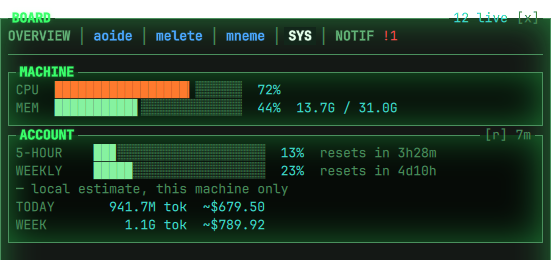
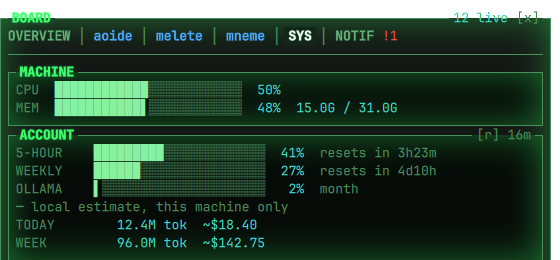
song(cadenza): the SYS account pane reads the ollama monthly limit (a gauge, a dim error line, nothing without a key)
Claude-Session: https://claude.ai/code/session_019AEiEL6mcmoQrTzxAXb3aT

diff --git a/song/songbook/cadenza/widgets/BoardSys.qml b/song/songbook/cadenza/widgets/BoardSys.qml
@@ -20,7 +20,10 @@
 // `costUsd: null` mean UNKNOWN and draw `—`, never 0; `costPartial` draws
 // the figure orange with a `~`. ACCOUNT reads `state/usage.json` (real
 // today) through `livery.usagePath`; `[r]` asks the daemon to re-run the
-// poller (`bridge.refreshUsage`) — the file watch picks the answer up.
+// poller (`bridge.refreshUsage`) — the file watch picks the answer up. Its
+// opt-in `ollama` block ({ok, monthly.utilization} or {ok:false, error})
+// adds one OLLAMA month gauge (the track clamps at 100%, the figure goes
+// orange past it) or one dim `ollama: <error>` line; absent, nothing.
 import QtQuick
 import Quickshell.Io
 
@@ -137,6 +140,16 @@ Item {
         return out
     }
     readonly property bool credits: liveOk && !!live.extraUsage && live.extraUsage.isEnabled === true
+    // the opt-in ollama block: absent → nothing drawn; ok:false → one dim
+    // line; otherwise the month's share of included credits (0–100+, no
+    // reset date, no dollars — Ollama publishes neither)
+    readonly property var ollama: (acct && acct.ollama) ? acct.ollama : null
+    readonly property bool ollamaOk: !!ollama && ollama.ok === true
+    readonly property real ollamaPct: {
+        var u = ollamaOk && ollama.monthly ? Number(ollama.monthly.utilization) : NaN
+        return isNaN(u) ? 0 : Math.max(0, u)
+    }
+    readonly property int ollamaRows: ollama ? 1 : 0
     property bool refreshing: false
     Timer { id: refreshCool; interval: 4000; onTriggered: root.refreshing = false }
     onAcctChanged: { refreshing = false; refreshCool.stop() }
@@ -196,7 +209,7 @@ Item {
                 props: ({ title: "account", glow: "bloom",
                           stat: Qt.binding(() => root.refreshing ? "[r] …" : "[r] " + (root.acct && root.acct.fetchedAt ? root.board.age(root.acct.fetchedAt) : "—")),
                           statColor: root.kit.dim,
-                          rows: Qt.binding(() => !root.acct ? 1 : (root.liveOk ? root.caps.length : 1) + (root.credits ? 1 : 0) + (root.local ? 3 : 0)),
+                          rows: Qt.binding(() => !root.acct ? 1 : (root.liveOk ? root.caps.length : 1) + (root.credits ? 1 : 0) + root.ollamaRows + (root.local ? 3 : 0)),
                           content: accountBody })
                 MouseArea {
                     // the [r] cut into the rule
@@ -399,6 +412,33 @@ Item {
                     text: root.credits ? root.money(root.live.extraUsage.usedCredits) + " / " + root.money(root.live.extraUsage.monthlyLimit) : ""
                     color: root.kit.number; font: root.kit.font; textFormat: Text.PlainText
                 }
+            }
+            // ollama (opt-in): the track stops at 100%, the figure does not
+            Row {
+                visible: root.ollamaOk
+                Use {
+                    kit: root.kit; helper: "Gauge"
+                    props: ({ label: "OLLAMA", labelCells: 10, cells: 22, warnAt: 0.6, urgentAt: 0.85,
+                              showPct: false,
+                              value: Qt.binding(() => Math.min(1, root.ollamaPct / 100)) })
+                }
+                Text {
+                    text: root.kit.padL(Math.round(root.ollamaPct) + "%", 5)
+                    color: root.ollamaPct > 100 ? root.kit.warn : root.kit.number
+                    font: root.kit.font; textFormat: Text.PlainText
+                }
+                Text {
+                    text: "  month"
+                    color: root.kit.dim; font: root.kit.font; textFormat: Text.PlainText
+                }
+            }
+            Text {
+                visible: !!root.ollama && !root.ollamaOk
+                width: parent.width; elide: Text.ElideRight
+                text: root.ollama && !root.ollamaOk
+                      ? "ollama: " + ("" + (root.ollama.error || "unavailable")).replace(/[\u0000-\u001f\u007f]+/g, " ")
+                      : ""
+                color: root.kit.dim; font: root.kit.font; textFormat: Text.PlainText
             }
             Text {
                 visible: !!root.local

diff --git a/song/songbook/cadenza/design/coverage.md b/song/songbook/cadenza/design/coverage.md
@@ -15,7 +15,7 @@ widget bodies for what each one reaches. Status: `design` → `preview` →
 | `dock` | SurfaceSlot · shell.qml (`aoide-dock`), extras `shared` `stagingEngine`; `toggle()` from the bar and `SUPER+G` | toggle contract; `openTab(tab)` from the bar cells | the tabbed board: OVERVIEW · project tabs · SYS · NOTIF (intent §3.3); closes by `[x]`, Escape, `SUPER+G`, the showing tab's bar cell, or a click off it (the `aoide-dock-scrim` catcher) | design |
 | `conductor` | WidgetSlot · sonata's dock | `stage/sessions.json` + `hooks.json`; `bridge.focusSession`, `sessionAction`, `traceSession`, `recheckSessions`, `heraldverdict` | not authored — the board OVERVIEW AGENTS pane + project rails draw agents | design |
 | `terminals` | WidgetSlot · sonata's dock | sessions.json (terminal sessions), `focusSession`, `focusWindow` | not authored — OVERVIEW TERMINALS pane + project rails | design |
-| `usage` | WidgetSlot · sonata's dock | `state/usage.json` (`livery.usagePath`), `bridge.refreshUsage` | not authored — the SYS tab ACCOUNT pane | design |
+| `usage` | WidgetSlot · sonata's dock | `state/usage.json` (`livery.usagePath`) incl. its opt-in `ollama` block, `bridge.refreshUsage` | not authored — the SYS tab ACCOUNT pane (Claude gauges + the `ollama` month gauge when present) | design |
 | `meters` | WidgetSlot · sonata's dock | CPU/mem (the paths sonata's meters reads) | not authored — the SYS tab MACHINE pane (`/proc/stat`, `/proc/meminfo`) | design |
 | `power` | WidgetSlot · sonata's dock | power vitals (sonata's `routePath` FileView), UPower | not authored — the bar `BAT` cell + its pane | design |
 | `herald-center` | WidgetSlot · sonata's dock | `stage/herald.json`, `heralddismiss`, `heraldverdict` | not authored — the NOTIF tab | design |

diff --git a/song/songbook/cadenza/design/intent.md b/song/songbook/cadenza/design/intent.md
@@ -328,7 +328,13 @@ own board; it mounts none of sonata's gadget slots.
   gauges (the kernel's `/proc/stat` and `/proc/meminfo`, read as sonata's
   meters reads them), the account block (`state/usage.json`), and, once
   `state/usage/now.json` is published, per-jack sparklines and
-  per-workspace/project token and cost totals.
+  per-workspace/project token and cost totals. The account block carries
+  the Claude limit gauges and, when the user has opted in, usage.json's
+  `ollama` block as one more gauge row, `OLLAMA … month`: the share of the
+  month's included credits, the track stopping at 100% while the figure
+  keeps counting in orange past it (no reset date, no dollars — Ollama
+  publishes neither). `ok: false` draws one dim `ollama: <error>` line; no
+  `ollama` key draws nothing.
 - **NOTIF** — the herald: toasts and summonses as borderless blocks, quoted
   plain text, `[y] approve [n] deny` on a summons (the existing
   `heraldverdict` / `heralddismiss` commands, nothing else).
@@ -361,7 +367,7 @@ harness (`BoardPreview.qml`) flips them to show the full board.
 | project feed | — | S8/S10 (`hasBoardFeed`) |
 | composer | — | S11 agents, S12 project (`hasBoardPost`); drawn disabled until `boardpost` exists |
 | SYS machine CPU/mem | `/proc/stat`, `/proc/meminfo` | — |
-| SYS account usage | `state/usage.json` | — |
+| SYS account usage | `state/usage.json` (its `ollama` block only when opted in) | — |
 | SYS per-jack CPU/mem/tokens/cost | — | S5/S6 (`hasJackUsage`) |
 | NOTIF | `stage/herald.json` | — |
 
